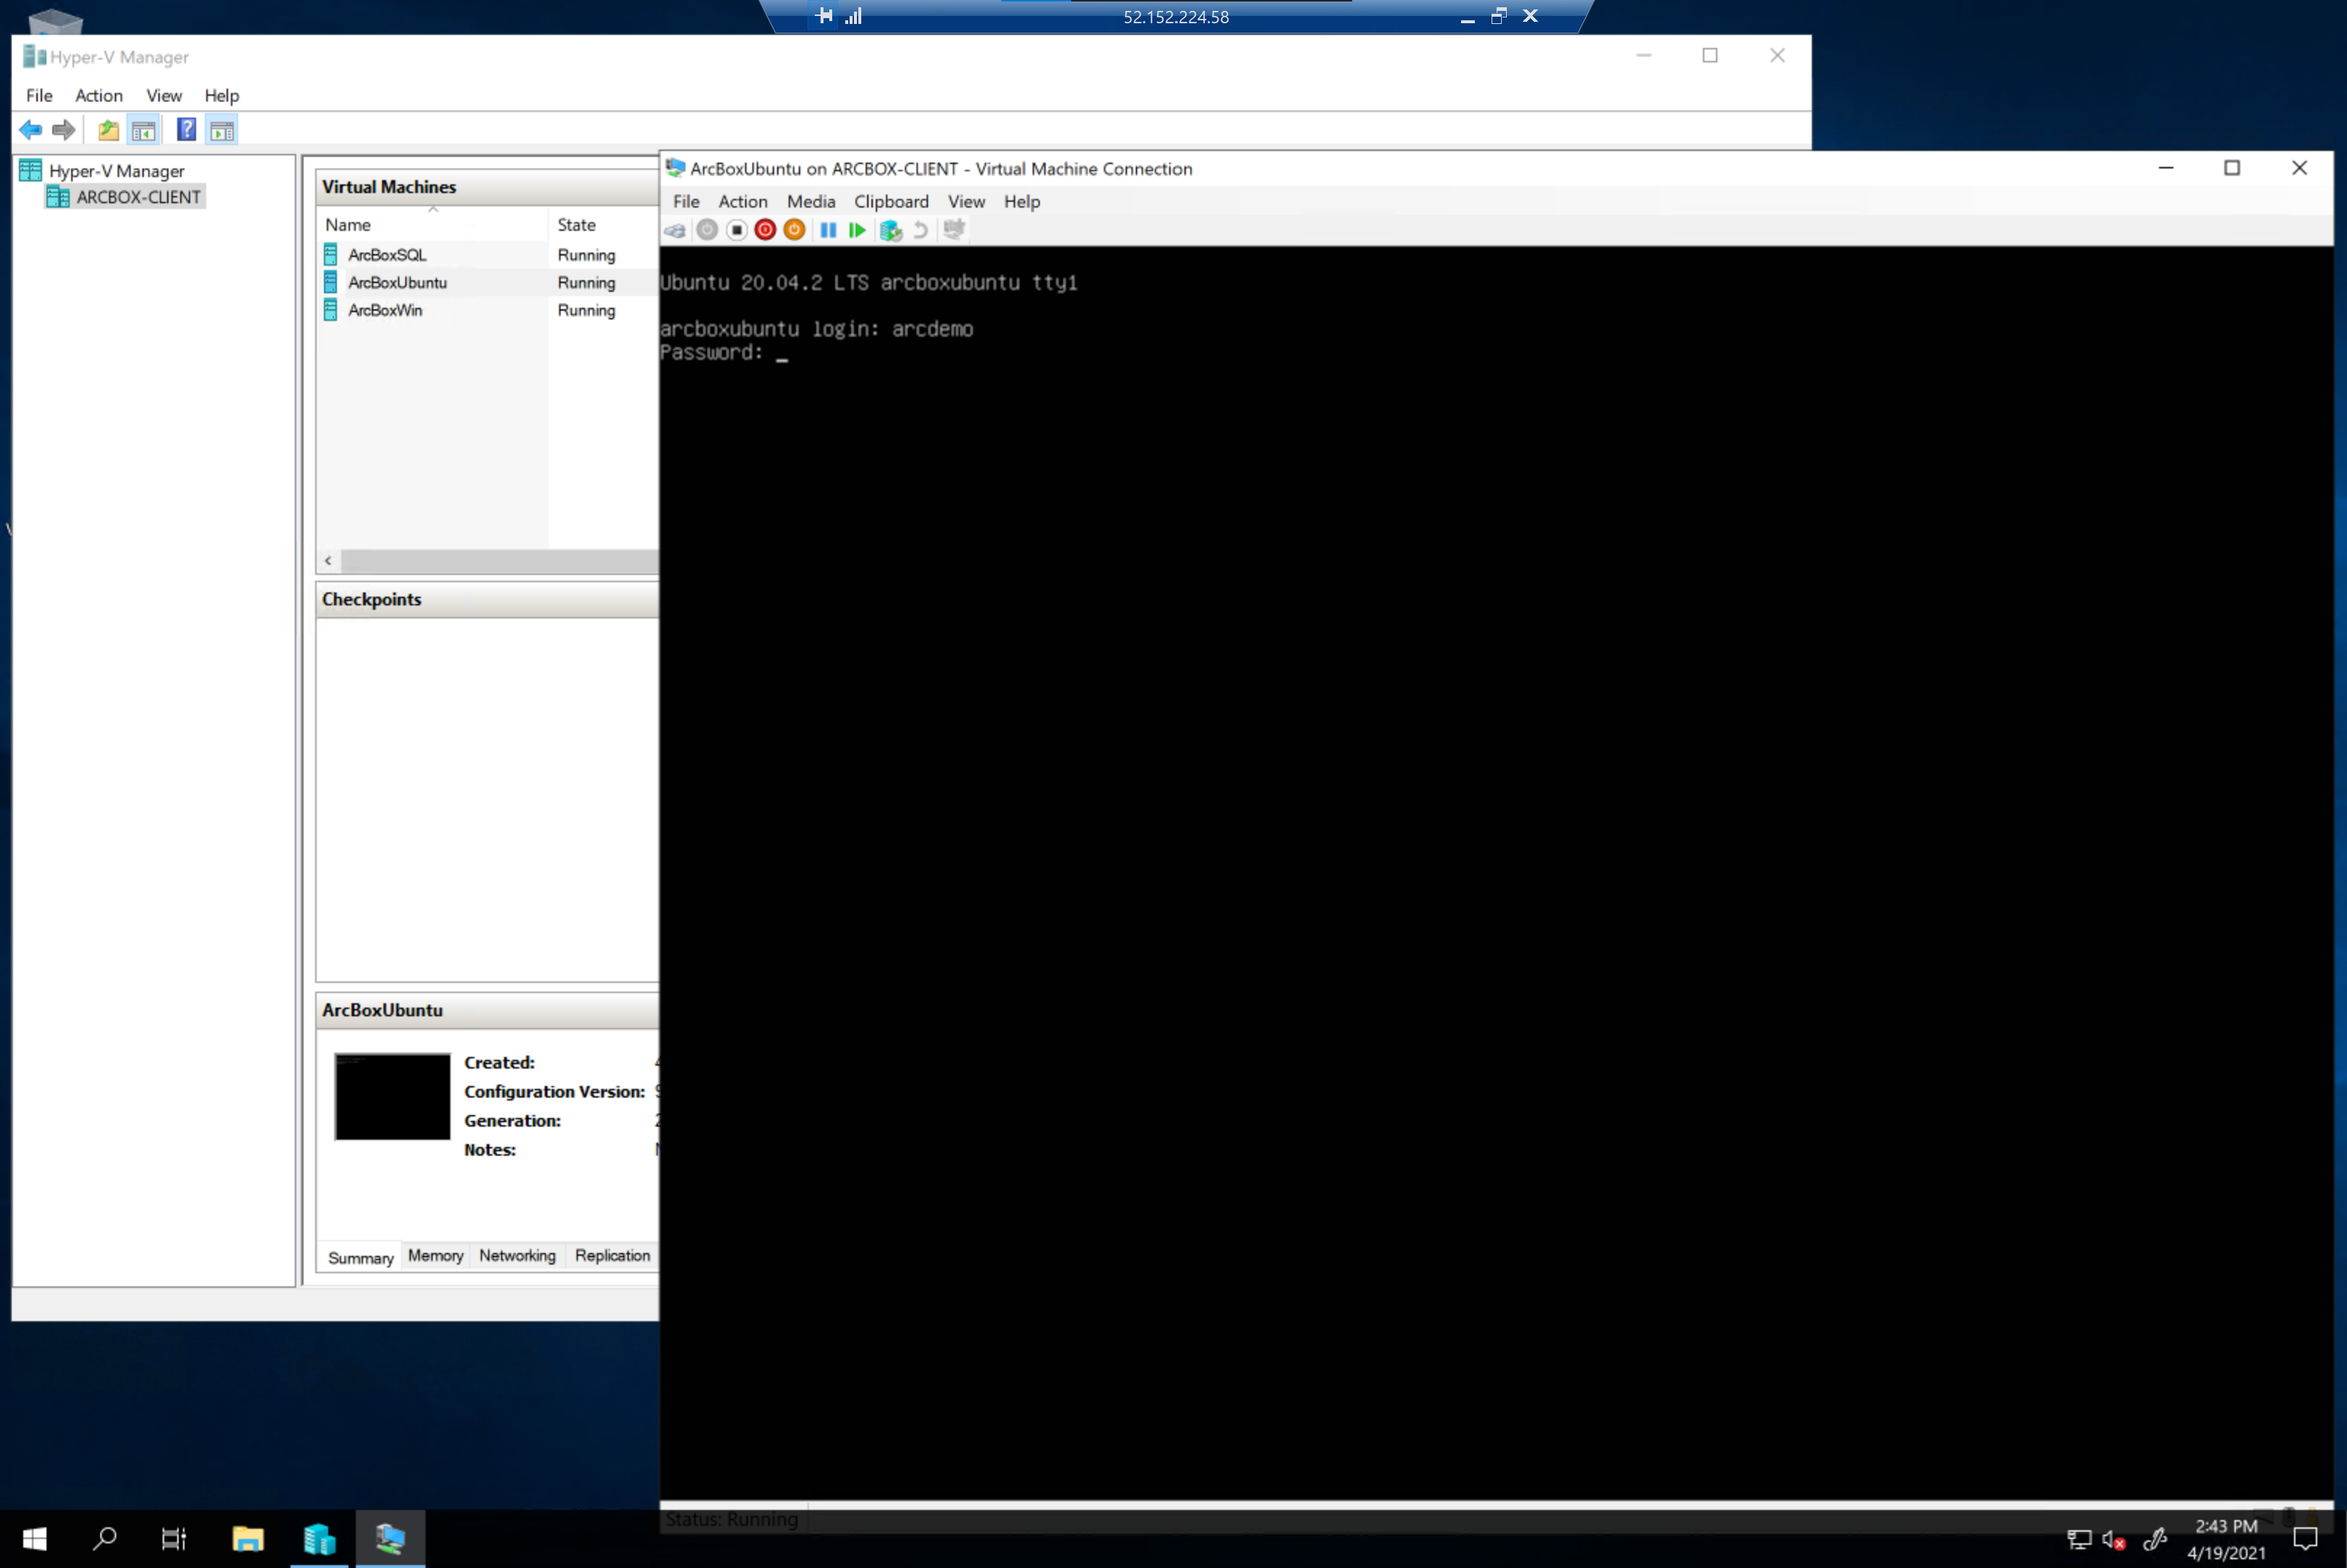
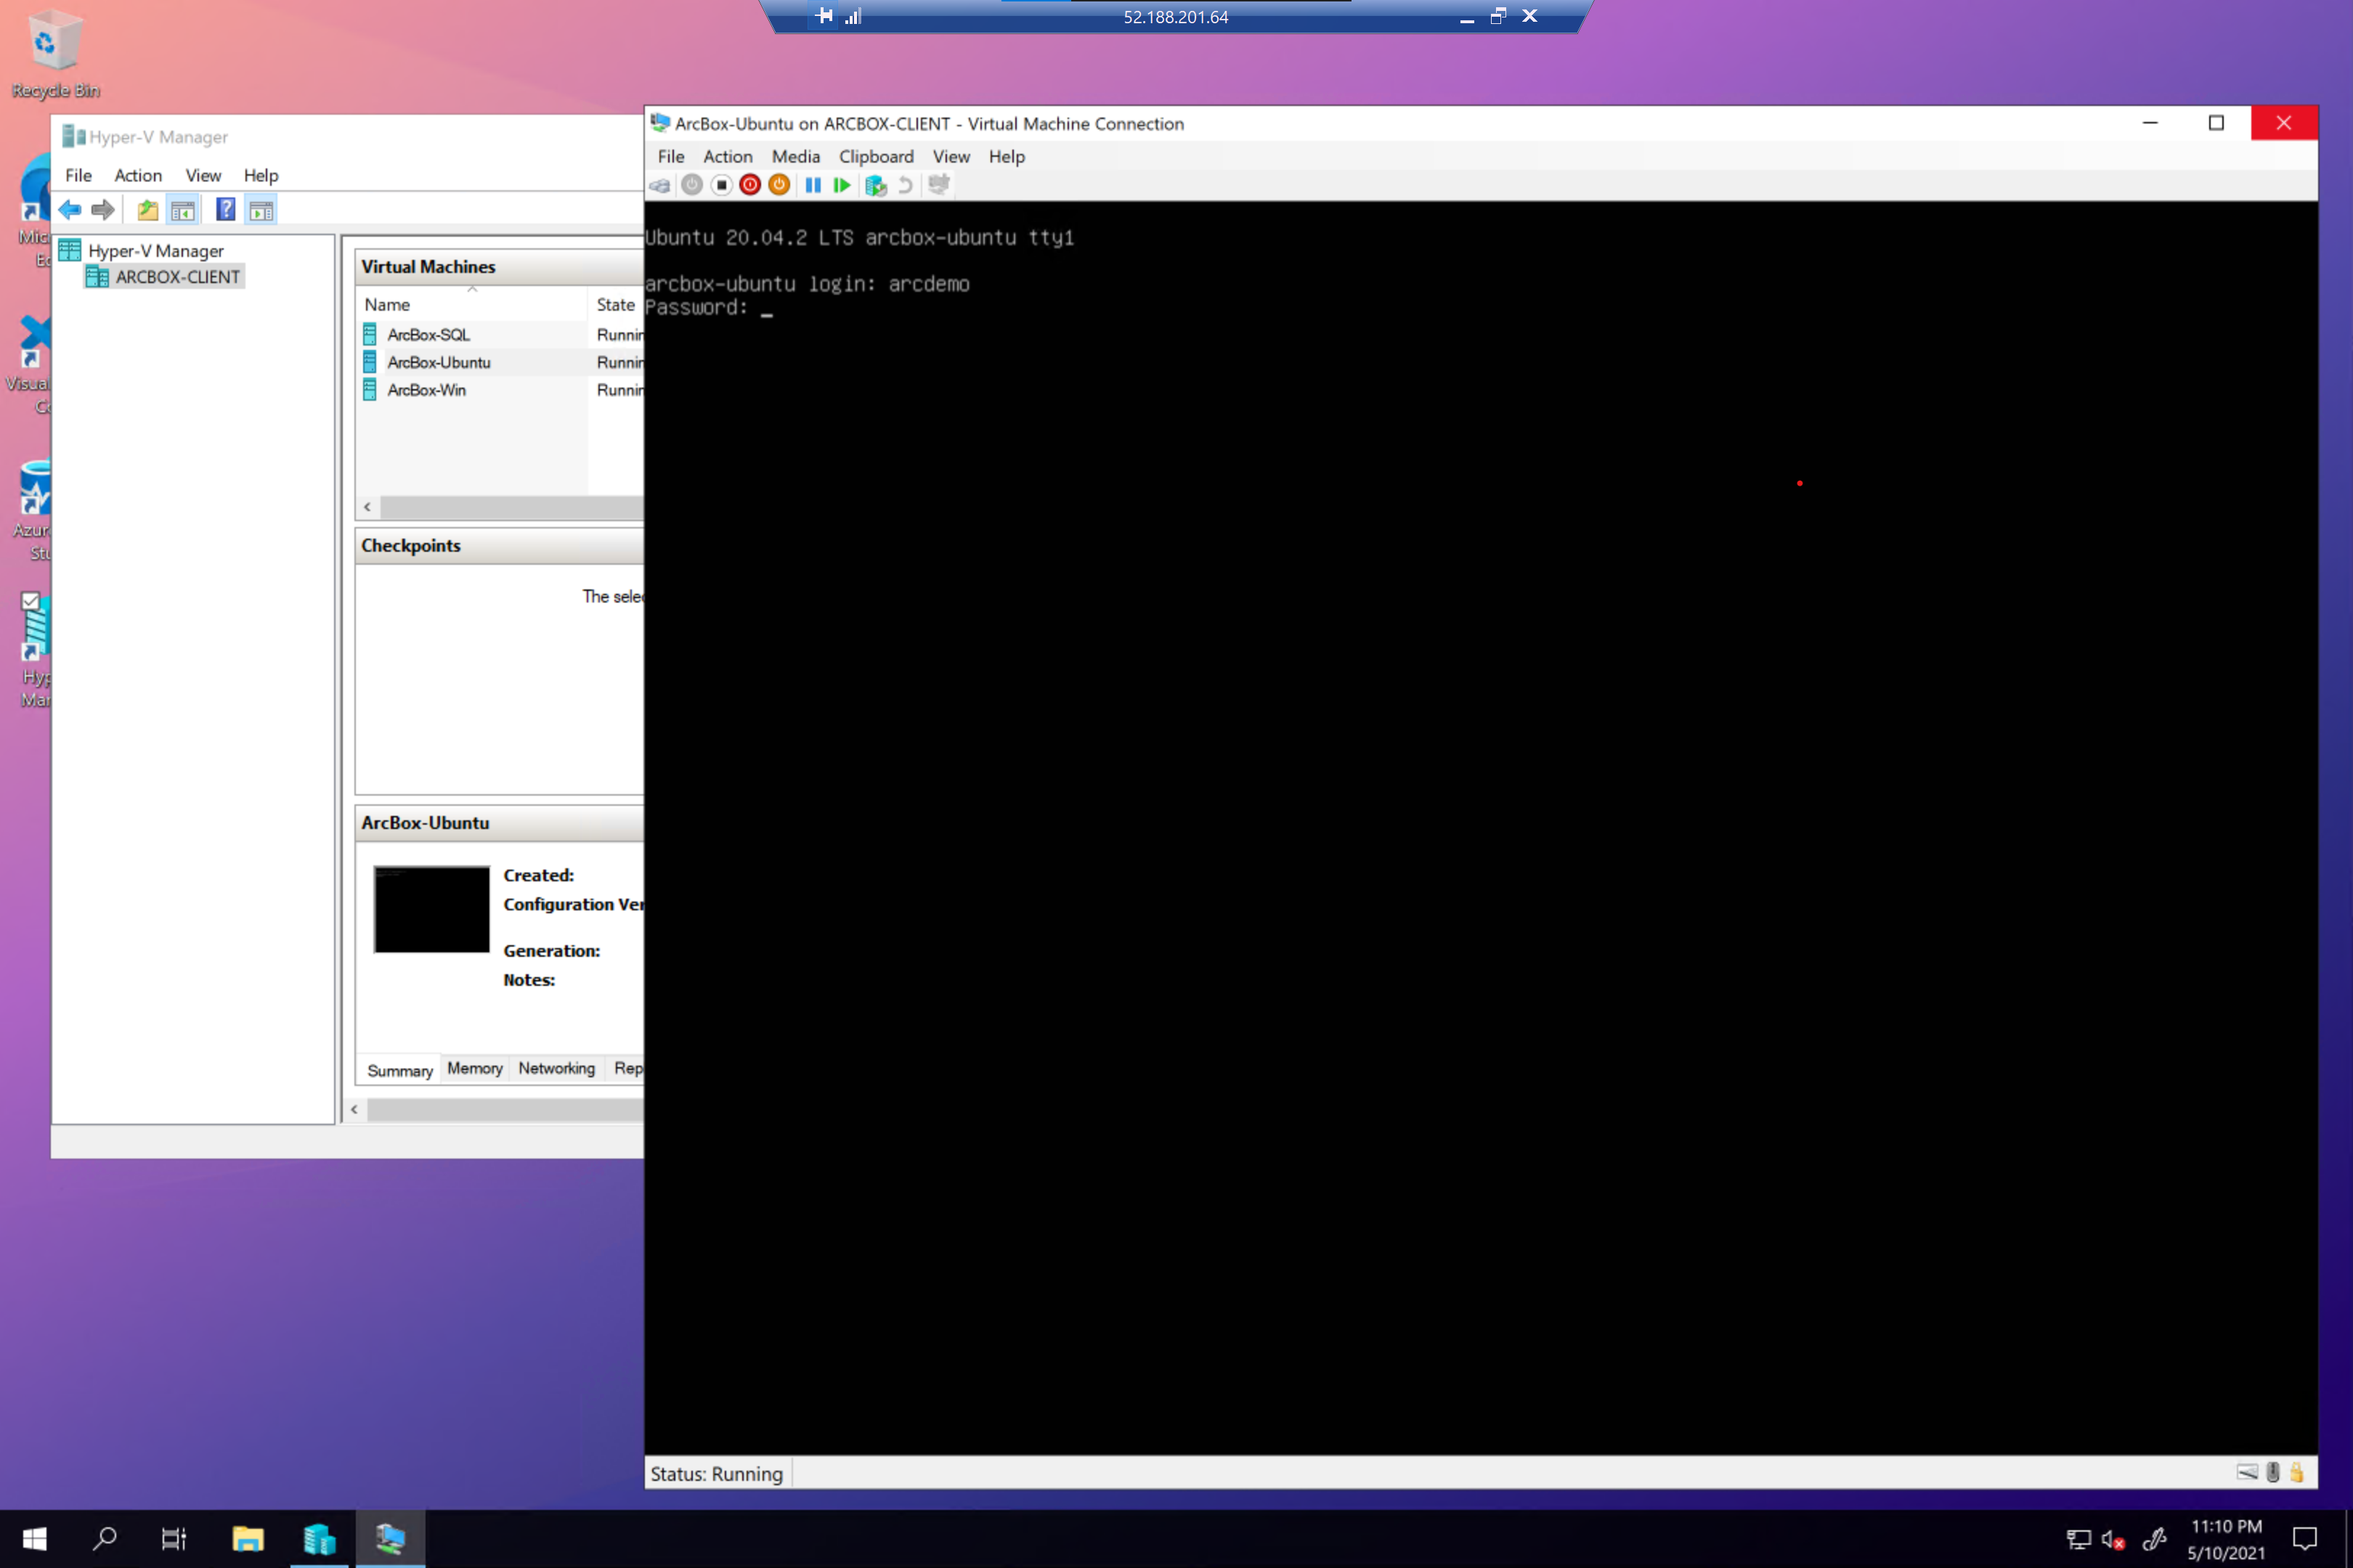
update screens and readme for capi

Changed region(s): [[0.0, 0.0, 1.0, 1.0]]

diff --git a/docs/azure_jumpstart_arcbox/_index.md b/docs/azure_jumpstart_arcbox/_index.md
@@ -169,7 +169,7 @@ ArcBox must be deployed to one of the following regions. Deploying ArcBox outsid
 
 * Open a remote desktop connection into _ArcBox-Client_. Upon logging in, multiple automated scripts will open and start running. These scripts will take 10-20 minutes to finish and once completed the script windows will close. At this point, the deployment is complete.
 
-  ![Screenshot showing ArcBox-Client](./clientscript.png)
+  ![Screenshot showing ArcBox-Client](./automation5.png)
 
   ![Screenshot showing ArcBox resources in Azure Portal](./rgarc.png)
 
@@ -187,7 +187,7 @@ After deployment is complete, its time to start exploring ArcBox. Most interacti
 
   ```shell
   kubectx
-  kubectx ArcBox-Data
+  kubectx arcbox-capi
   kubectl get nodes
   kubectl get pods -n arcdatactrl
   kubectx arcboxk3s
@@ -220,7 +220,6 @@ After deployment is complete, its time to start exploring ArcBox. Most interacti
 | ---------------------------------------------------- | ------------- |
 | Azure Data Studio with Arc and PostgreSQL extensions | ArcBox-Client |
 | kubectl, kubectx, helm                               | ArcBox-Client |
-| PostgreSQL tools                                     | ArcBox-Client |
 | Chocolatey                                           | ArcBox-Client |
 | Visual Studio Code                                   | ArcBox-Client |
 | Putty                                                | ArcBox-Client |
